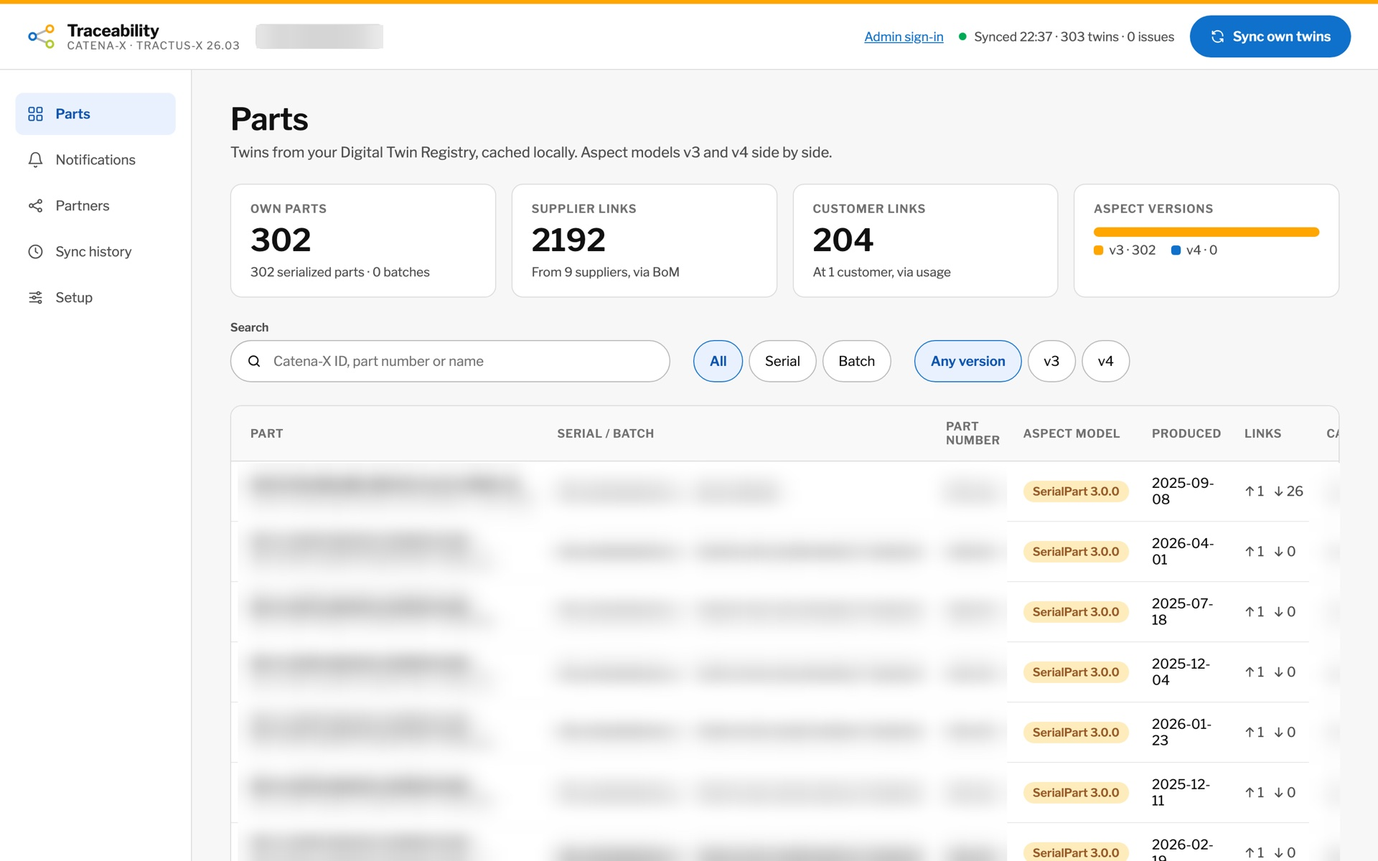
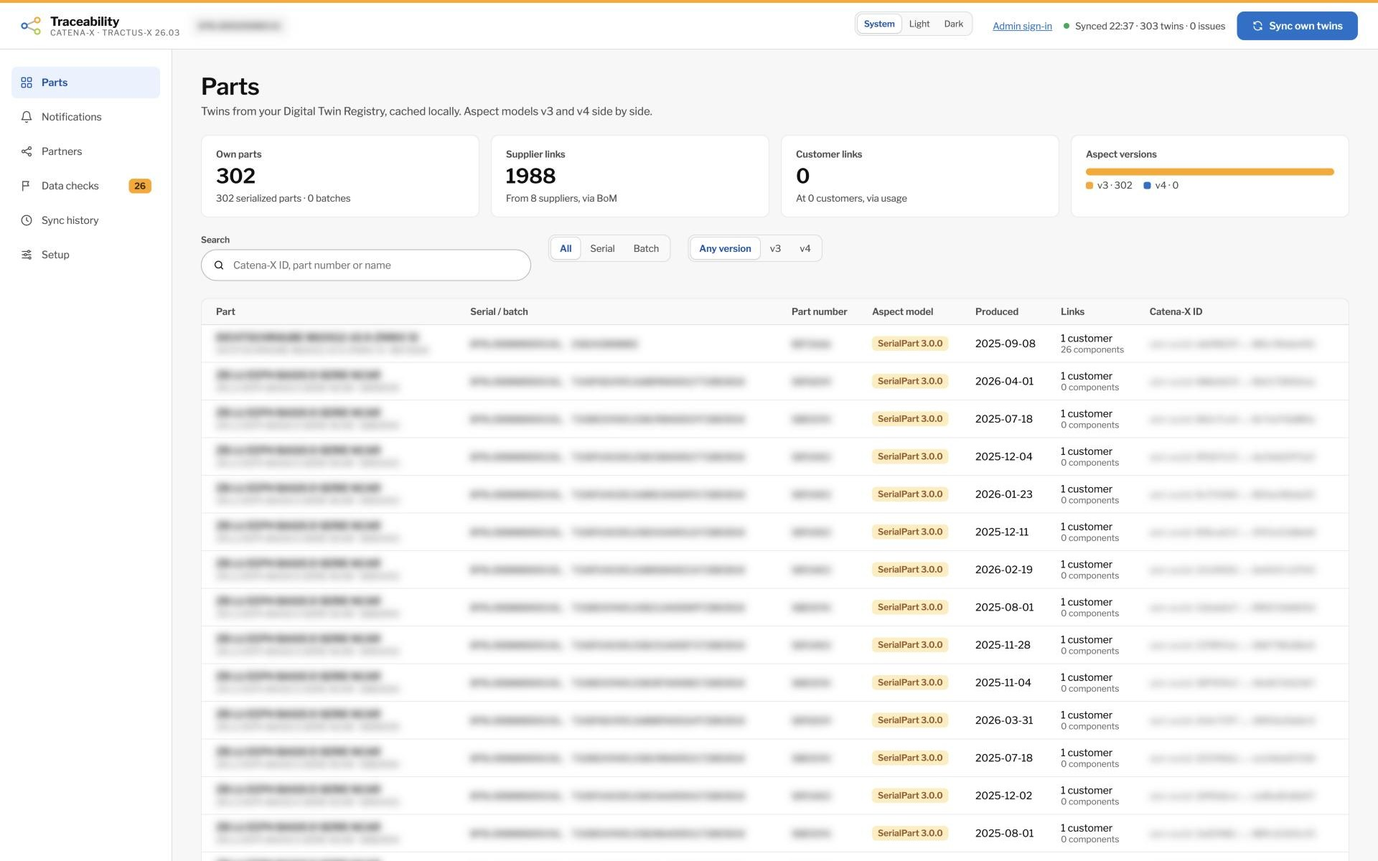
docs(pitch): bring the deck up to date with the app and the latest test results
- Slide 11: 296 automated tests; supplier parts read through the
  suppliers' own production connectors (356 parts, partners not named);
  links corrected to 1,988 to 8 suppliers (the earlier count also included
  links between own parts); a new screenshot of the current UI, sensitive
  data blurred. The notes say what was and was not measured again.
- Slides 7, 8 and 12: the core's part structure, where-used and checks;
  reuse, parallel reads, retries and back-off; phase 3 includes the
  suppliers' connectors and the work to run unattended.
- Viewer: on a phone the speaker notes show as text under each slide.

diff --git a/docs/pitch/index.html b/docs/pitch/index.html
@@ -25,6 +25,15 @@ section th, section td { text-align: left; padding: 18px 28px; border-bottom: 1p
 section aside { display: none; }
 body.notes section aside { display: block; position: absolute; left: 0; right: 0; bottom: 0;
   background: rgba(20,24,29,.92); color: #f4f6f8; font-size: 26px; line-height: 1.4; padding: 24px 40px; }
+.note { display: none; max-width: 1600px; margin: -16px auto 32px; color: #c9ced4; font-size: 15px;
+  line-height: 1.5; }
+@media (max-width: 900px) {
+  header { padding: 16px; }
+  header label { margin-left: 0; }
+  .frame { margin-bottom: 20px; border-radius: 4px; }
+  body.notes section aside { display: none; }
+  body.notes .note { display: block; padding: 0 16px; margin-top: -8px; }
+}
 x-shape { display: block; flex: none; }
 x-shape[kind="ellipse"] { border-radius: 50%; }
 x-shape[kind="arrow-right"] { clip-path: polygon(0 30%, 60% 30%, 60% 0, 100% 50%, 60% 100%, 60% 70%, 0 70%); }
@@ -53,6 +62,7 @@ x-shape[kind="arrow-up"] { clip-path: polygon(30% 100%, 70% 100%, 70% 40%, 100% 
 <aside>Open with the one-line idea: the Traceability use case is alive and standardized, the reference app that was meant to carry it is not. We built a small app that follows the KIT and avoids the architectural choice that made Trace-X slow.</aside>
 </section>
 </div></div>
+<div class="note">Open with the one-line idea: the Traceability use case is alive and standardized, the reference app that was meant to carry it is not. We built a small app that follows the KIT and avoids the architectural choice that made Trace-X slow.</div>
 <div class="frame"><div class="slide">
 <section id="problem" data-section="Why traceability matters and what the network already tried" style="background:#F7F7F5;color:#14181D;font-family:'Libre Franklin', Arial, sans-serif;padding:128px 128px 160px;display:flex;flex-direction:column;gap:56px">
 <div style="display:flex;flex-direction:column;gap:20px">
@@ -81,6 +91,7 @@ x-shape[kind="arrow-up"] { clip-path: polygon(30% 100%, 70% 100%, 70% 40%, 100% 
 <aside>This is the business question behind the Traceability KIT: precise recall scope instead of broad recalls. The answer is spread over many companies; each knows only its own level. Alerts go to customers, investigations to suppliers — that is the KIT's notification model.</aside>
 </section>
 </div></div>
+<div class="note">This is the business question behind the Traceability KIT: precise recall scope instead of broad recalls. The answer is spread over many companies; each knows only its own level. Alerts go to customers, investigations to suppliers — that is the KIT's notification model.</div>
 <div class="frame"><div class="slide">
 <section id="tracex" data-section="What happened to Trace-X and why it stalled" style="background:#F7F7F5;color:#14181D;font-family:'Libre Franklin', Arial, sans-serif;padding:128px 128px 160px;display:flex;flex-direction:column;gap:56px">
 <div style="display:flex;flex-direction:column;gap:20px">
@@ -115,6 +126,7 @@ x-shape[kind="arrow-up"] { clip-path: polygon(30% 100%, 70% 100%, 70% 40%, 100% 
 <aside>Be fair to Trace-X: it proved the use case and its notification model became the KIT standard. The point is the architecture: the app shipped together with IRS and expected the whole stack around it.</aside>
 </section>
 </div></div>
+<div class="note">Be fair to Trace-X: it proved the use case and its notification model became the KIT standard. The point is the architecture: the app shipped together with IRS and expected the whole stack around it.</div>
 <div class="frame"><div class="slide">
 <section id="status" data-transition="fade" style="background:#10212F;color:#F4F6F8;font-family:'Libre Franklin', Arial, sans-serif;padding:128px 128px 160px;display:flex;flex-direction:column;gap:72px">
 <div style="display:flex;flex-direction:column;gap:20px">
@@ -140,6 +152,7 @@ x-shape[kind="arrow-up"] { clip-path: polygon(30% 100%, 70% 100%, 70% 40%, 100% 
 <aside>All three numbers are from public sources: the repository history and the Tractus-X release changelog. The repo is not archived and there was no formal deprecation notice; it simply dropped out of the release package after 25.06. Meanwhile the Traceability KIT kept evolving (7.0.0 in 25.09, 8.0.0 in 26.03).</aside>
 </section>
 </div></div>
+<div class="note">All three numbers are from public sources: the repository history and the Tractus-X release changelog. The repo is not archived and there was no formal deprecation notice; it simply dropped out of the release package after 25.06. Meanwhile the Traceability KIT kept evolving (7.0.0 in 25.09, 8.0.0 in 26.03).</div>
 <div class="frame"><div class="slide">
 <section id="why" style="background:#F7F7F5;color:#14181D;font-family:'Libre Franklin', Arial, sans-serif;padding:128px 128px 160px;display:flex;flex-direction:column;gap:56px">
 <div style="display:flex;flex-direction:column;gap:20px">
@@ -165,6 +178,7 @@ x-shape[kind="arrow-up"] { clip-path: polygon(30% 100%, 70% 100%, 70% 40%, 100% 
 <aside>Field feedback we heard: performance was the blocker in daily use. We cannot point to a public benchmark, so the slide shows the architectural reason instead — a recursive walk that pays a full dataspace round trip per hop — and the public facts: no load tests in the release notes, and IRS left behind by the move to Saturn policies. [Add your own field evidence here if you have it.]</aside>
 </section>
 </div></div>
+<div class="note">Field feedback we heard: performance was the blocker in daily use. We cannot point to a public benchmark, so the slide shows the architectural reason instead — a recursive walk that pays a full dataspace round trip per hop — and the public facts: no load tests in the release notes, and IRS left behind by the move to Saturn policies. [Add your own field evidence here if you have it.]</div>
 <div class="frame"><div class="slide">
 <section id="hops" style="background:#F7F7F5;color:#14181D;font-family:'Libre Franklin', Arial, sans-serif;padding:128px 128px 160px;display:flex;flex-direction:column;gap:48px">
 <div style="display:flex;flex-direction:column;gap:20px">
@@ -207,6 +221,7 @@ x-shape[kind="arrow-up"] { clip-path: polygon(30% 100%, 70% 100%, 70% 40%, 100% 
 <aside>This is the slide to slow down on. Left: one question triggers a recursive walk; the cost grows with the depth of the chain and every hop is a full dataspace round trip. Right: nobody walks the chain. Each company answers its own level from a local cache and decides to forward — exactly the hop-by-hop model the Traceability KIT describes for alerts and investigations.</aside>
 </section>
 </div></div>
+<div class="note">This is the slide to slow down on. Left: one question triggers a recursive walk; the cost grows with the depth of the chain and every hop is a full dataspace round trip. Right: nobody walks the chain. Each company answers its own level from a local cache and decides to forward — exactly the hop-by-hop model the Traceability KIT describes for alerts and investigations.</div>
 <div class="frame"><div class="slide">
 <section id="principles" data-section="Our approach and why it fits the network as it is" style="background:#F7F7F5;color:#14181D;font-family:'Libre Franklin', Arial, sans-serif;padding:128px 128px 160px;display:flex;flex-direction:column;gap:56px">
 <div style="display:flex;flex-direction:column;gap:20px">
@@ -224,7 +239,7 @@ x-shape[kind="arrow-up"] { clip-path: polygon(30% 100%, 70% 100%, 70% 40%, 100% 
 </div>
 <div style="display:flex;flex-direction:column;gap:16px;background:#FFFFFF;border:1px solid #DCDCDC;border-left:6px solid #0F71CB;border-radius:16px;padding:36px 40px">
 <h3 style="font-size:36px;font-weight:600;line-height:1.2">Negotiate once, reuse</h3>
-<p style="font-size:28px;line-height:1.45;color:#4A5563">Contract agreements and access tokens are kept per partner and asset; twins live in a local cache.</p>
+<p style="font-size:28px;line-height:1.45;color:#4A5563">Agreements and tokens are reused per partner and asset; twins live in a local cache, read again only when stale.</p>
 </div>
 <div style="display:flex;flex-direction:column;gap:16px;background:#FFFFFF;border:1px solid #DCDCDC;border-left:6px solid #0F71CB;border-radius:16px;padding:36px 40px">
 <h3 style="font-size:36px;font-weight:600;line-height:1.2">Read every version in use</h3>
@@ -232,9 +247,10 @@ x-shape[kind="arrow-up"] { clip-path: polygon(30% 100%, 70% 100%, 70% 40%, 100% 
 </div>
 </div>
 <p style="position:absolute;left:128px;bottom:64px;width:1664px;font-size:24px;color:#6A7480">Catena-X Traceability · 7</p>
-<aside>Each choice answers one of the reasons Trace-X stalled. Prerequisite infrastructure answers the heavy bundled stack. One level answers the recursive walk. Negotiate-once answers the per-request round trips: in a local test against a production EDC, 303 twins sharing a handful of assets synced in 7.5 minutes through the EDC. Tolerant reading answers version churn: the network does not upgrade in lockstep.</aside>
+<aside>Each choice answers one of the reasons Trace-X stalled. Prerequisite infrastructure answers the heavy bundled stack. One level answers the recursive walk. Negotiate-once answers the per-request round trips: in a local test against a production EDC, 303 twins sharing a handful of assets synced in 7.5 minutes through the EDC. Partner syncs now read several partners and twins at once, retry passing failures, skip twins read in the last day and leave alone for a while a partner that keeps failing. Tolerant reading answers version churn: the network does not upgrade in lockstep.</aside>
 </section>
 </div></div>
+<div class="note">Each choice answers one of the reasons Trace-X stalled. Prerequisite infrastructure answers the heavy bundled stack. One level answers the recursive walk. Negotiate-once answers the per-request round trips: in a local test against a production EDC, 303 twins sharing a handful of assets synced in 7.5 minutes through the EDC. Partner syncs now read several partners and twins at once, retry passing failures, skip twins read in the last day and leave alone for a while a partner that keeps failing. Tolerant reading answers version churn: the network does not upgrade in lockstep.</div>
 <div class="frame"><div class="slide">
 <section id="architecture" style="background:#F7F7F5;color:#14181D;font-family:'Libre Franklin', Arial, sans-serif;padding:128px 128px 160px;display:flex;flex-direction:column;gap:48px">
 <div style="display:flex;flex-direction:column;gap:20px">
@@ -244,7 +260,7 @@ x-shape[kind="arrow-up"] { clip-path: polygon(30% 100%, 70% 100%, 70% 40%, 100% 
 <div style="display:flex;flex-direction:row;gap:24px;align-items:center">
 <div style="flex:1.5;display:flex;flex-direction:column;gap:14px;background:#0F71CB;color:#FFFFFF;border-radius:16px;padding:32px 36px">
 <h3 style="font-size:32px;font-weight:600;color:#FFFFFF">Traceability app</h3>
-<p style="font-size:26px;background:#0D55AF;padding:10px 18px;border-radius:8px">Core: sync, one-level tree, affected parts</p>
+<p style="font-size:26px;background:#0D55AF;padding:10px 18px;border-radius:8px">Core: sync, part structure, where-used, checks</p>
 <p style="font-size:26px;background:#0D55AF;padding:10px 18px;border-radius:8px">Aspect adapters: v3 · v4 · industry_core</p>
 <p style="font-size:26px;background:#0D55AF;padding:10px 18px;border-radius:8px">Notifications: KIT API 1.2.1 + 2.0.0</p>
 <p style="font-size:26px;background:#0D55AF;padding:10px 18px;border-radius:8px">Dataspace client: Tractus-X SDK</p>
@@ -273,9 +289,10 @@ x-shape[kind="arrow-up"] { clip-path: polygon(30% 100%, 70% 100%, 70% 40%, 100% 
 </div>
 <p style="font-size:28px;color:#4A5563">Python · FastAPI · Tractus-X SDK · PostgreSQL · React — one container, on Docker Compose or Helm, configured in the browser.</p>
 <p style="position:absolute;left:128px;bottom:64px;width:1664px;font-size:24px;color:#6A7480">Catena-X Traceability · 8</p>
-<aside>The app is the only new component. The EDC, the registry, the submodel server and the identity are what every participant runs anyway. All dataspace access goes through the official Tractus-X SDK behind our own interfaces, so moving to the next release (26.09: EDC 0.13) is a configuration and adapter change, not a rewrite. Setting it up takes an admin sign-in and a guided checklist on the Setup page: connector, registry, IdP, discovery and the company's own root CA, each with a connection test.</aside>
+<aside>The app is the only new component. The EDC, the registry, the submodel server and the identity are what every participant runs anyway. All dataspace access goes through the official Tractus-X SDK behind our own interfaces, so moving to the next release (26.09: EDC 0.13) is a configuration and adapter change, not a rewrite. Setting it up takes an admin sign-in and a guided checklist on the Setup page: connector, registry, IdP, discovery and the company's own root CA, each with a connection test, and the usage policies the company accepts. Next to the one-level read across companies, the core shows a part's structure through every own level and where a part is used, and checks the own bills of material and the partners' connectors.</aside>
 </section>
 </div></div>
+<div class="note">The app is the only new component. The EDC, the registry, the submodel server and the identity are what every participant runs anyway. All dataspace access goes through the official Tractus-X SDK behind our own interfaces, so moving to the next release (26.09: EDC 0.13) is a configuration and adapter change, not a rewrite. Setting it up takes an admin sign-in and a guided checklist on the Setup page: connector, registry, IdP, discovery and the company's own root CA, each with a connection test, and the usage policies the company accepts. Next to the one-level read across companies, the core shows a part's structure through every own level and where a part is used, and checks the own bills of material and the partners' connectors.</div>
 <div class="frame"><div class="slide">
 <section id="reality" style="background:#F7F7F5;color:#14181D;font-family:'Libre Franklin', Arial, sans-serif;padding:128px 128px 160px;display:flex;flex-direction:column;gap:48px">
 <div style="display:flex;flex-direction:column;gap:20px">
@@ -294,6 +311,7 @@ x-shape[kind="arrow-up"] { clip-path: polygon(30% 100%, 70% 100%, 70% 40%, 100% 
 <aside>The network does not upgrade in lockstep. SerialPart 3.0.x is still in release status in the official models repository, so tolerating it is correct, not a workaround. The end of Jupiter support at the end of 2026 is why Saturn comes first; in practice some partners have not moved yet, so the app still negotiates with them over DSP 0.8. The KIT itself says 1.2.1 is mandatory and 2.0.0 optional; 2.0.0 is a superset, so we receive both.</aside>
 </section>
 </div></div>
+<div class="note">The network does not upgrade in lockstep. SerialPart 3.0.x is still in release status in the official models repository, so tolerating it is correct, not a workaround. The end of Jupiter support at the end of 2026 is why Saturn comes first; in practice some partners have not moved yet, so the app still negotiates with them over DSP 0.8. The KIT itself says 1.2.1 is mandatory and 2.0.0 optional; 2.0.0 is a superset, so we receive both.</div>
 <div class="frame"><div class="slide">
 <section id="compare" data-transition="fade" style="background:#10212F;color:#F4F6F8;font-family:'Libre Franklin', Arial, sans-serif;padding:128px 128px 160px;display:flex;flex-direction:column;gap:48px">
 <div style="display:flex;flex-direction:column;gap:20px">
@@ -313,6 +331,7 @@ x-shape[kind="arrow-up"] { clip-path: polygon(30% 100%, 70% 100%, 70% 40%, 100% 
 <aside>Keep this factual, not a takedown. The notification model is the same — it is the KIT standard and Trace-X helped define it. What differs is where the work happens: in a recursive walk through the network, or locally at each company. [Check the "Aspect versions" row against your own experience with Trace-X before presenting.]</aside>
 </section>
 </div></div>
+<div class="note">Keep this factual, not a takedown. The notification model is the same — it is the KIT standard and Trace-X helped define it. What differs is where the work happens: in a recursive walk through the network, or locally at each company. [Check the "Aspect versions" row against your own experience with Trace-X before presenting.]</div>
 <div class="frame"><div class="slide">
 <section id="today" data-section="Where we are, what comes next and what we need" style="background:#F7F7F5;color:#14181D;font-family:'Libre Franklin', Arial, sans-serif;padding:128px 128px 160px;display:flex;flex-direction:column;gap:48px">
 <div style="display:flex;flex-direction:column;gap:20px">
@@ -326,27 +345,28 @@ x-shape[kind="arrow-up"] { clip-path: polygon(30% 100%, 70% 100%, 70% 40%, 100% 
 <p style="font-size:28px;line-height:1.35;color:#4A5563">synced in a local test against a production registry and EDC, in 7.5 minutes</p>
 </div>
 <div style="display:flex;flex-direction:column;gap:4px;border-left:6px solid #B3CB2D;padding:0 0 0 24px">
-<p style="font-size:56px;font-weight:700;line-height:1.1">2,192 · 204</p>
-<p style="font-size:28px;line-height:1.35;color:#4A5563">links to 9 suppliers and 1 customer, from bills of material and usage</p>
+<p style="font-size:56px;font-weight:700;line-height:1.1">356 supplier parts</p>
+<p style="font-size:28px;line-height:1.35;color:#4A5563">read through the suppliers' own production connectors, from 1,988 links to 8 suppliers</p>
 </div>
 <div style="display:flex;flex-direction:column;gap:4px;border-left:6px solid #B3CB2D;padding:0 0 0 24px">
 <p style="font-size:36px;font-weight:600;line-height:1.2">Three companies, real EDCs</p>
 <p style="font-size:28px;line-height:1.35;color:#4A5563">An alert travels Tier-2 → Tier-1 → OEM on the Tractus-X umbrella, and back</p>
 </div>
 <div style="display:flex;flex-direction:column;gap:4px;border-left:6px solid #B3CB2D;padding:0 0 0 24px">
-<p style="font-size:36px;font-weight:600;line-height:1.2">252 automated tests</p>
+<p style="font-size:36px;font-weight:600;line-height:1.2">296 automated tests</p>
 <p style="font-size:28px;line-height:1.35;color:#4A5563">14 official aspect payload versions, v3 to industry_core v4</p>
 </div>
 </div>
 <div style="flex:1;display:flex;flex-direction:column;gap:12px">
-<img src="parts-production.jpg" alt="The app's parts page after a local test sync: 302 own parts, 2192 supplier links, 204 customer links, 0 issues" style="width:960px;height:600px;object-fit:contain;background:#E9ECEF;border:1px solid #DCDCDC;border-radius:16px">
+<img src="parts-production.jpg" alt="The app's parts page after a local test sync: 302 own parts, 1988 supplier links to 8 suppliers, 0 issues" style="width:960px;height:600px;object-fit:contain;background:#E9ECEF;border:1px solid #DCDCDC;border-radius:16px">
 <p style="font-size:24px;color:#6A7480">A local test against a production connector — names, serials and BPNL blurred</p>
 </div>
 </div>
 <p style="position:absolute;left:128px;bottom:64px;width:1664px;font-size:24px;color:#6A7480">Catena-X Traceability · 11</p>
-<aside>Be precise about what is proven. In a one-off local test against a production EDC and registry (a local instance, not a production deployment), the app synced a selection of 200 vehicles (303 twins with their children) from a real Digital Twin Registry; the data plane wanted an EDR, so every submodel was read through the company's own EDC — one negotiation per shared asset, then plain reads — and nothing failed. In the Tractus-X umbrella lab: three companies, each with its own EDC, registry and app, read their direct partners and pass a quality alert Tier-2 → Tier-1 → OEM with the acceptance coming back. Not yet proven: notifications with a real partner in production — that is the pilot.</aside>
+<aside>Be precise about what is proven. In a one-off local test against a production EDC and registry (a local instance, not a production deployment), the app synced a selection of 200 vehicles (303 twins with their children) from a real Digital Twin Registry; the data plane wanted an EDR, so every submodel was read through the company's own EDC — one negotiation per shared asset, then plain reads — and nothing failed. In the Tractus-X umbrella lab: three companies, each with its own EDC, registry and app, read their direct partners and pass a quality alert Tier-2 → Tier-1 → OEM with the acceptance coming back. In the same local test, the app read its direct suppliers' parts through their own production connectors: 356 supplier parts are cached, from three suppliers. Of the six suppliers synced so far, two delivered every linked twin, three answered but publish none of the linked twins yet — a data question to settle with them, not a connectivity one — and one refused the negotiation. The links figure is 1,988 to 8 suppliers: an earlier count also included links between the company's own parts. The 7.5 minutes were measured before partners and twins were read in parallel and tokens reused until they expire; it has not been measured again. Not yet proven: notifications with a real partner in production — that is the pilot.</aside>
 </section>
 </div></div>
+<div class="note">Be precise about what is proven. In a one-off local test against a production EDC and registry (a local instance, not a production deployment), the app synced a selection of 200 vehicles (303 twins with their children) from a real Digital Twin Registry; the data plane wanted an EDR, so every submodel was read through the company's own EDC — one negotiation per shared asset, then plain reads — and nothing failed. In the Tractus-X umbrella lab: three companies, each with its own EDC, registry and app, read their direct partners and pass a quality alert Tier-2 → Tier-1 → OEM with the acceptance coming back. In the same local test, the app read its direct suppliers' parts through their own production connectors: 356 supplier parts are cached, from three suppliers. Of the six suppliers synced so far, two delivered every linked twin, three answered but publish none of the linked twins yet — a data question to settle with them, not a connectivity one — and one refused the negotiation. The links figure is 1,988 to 8 suppliers: an earlier count also included links between the company's own parts. The 7.5 minutes were measured before partners and twins were read in parallel and tokens reused until they expire; it has not been measured again. Not yet proven: notifications with a real partner in production — that is the pilot.</div>
 <div class="frame"><div class="slide">
 <section id="roadmap" style="background:#F7F7F5;color:#14181D;font-family:'Libre Franklin', Arial, sans-serif;padding:128px 128px 160px;display:flex;flex-direction:column;gap:56px">
 <div style="display:flex;flex-direction:column;gap:20px">
@@ -367,7 +387,7 @@ x-shape[kind="arrow-up"] { clip-path: polygon(30% 100%, 70% 100%, 70% 40%, 100% 
 <div style="flex:1;display:flex;flex-direction:column;gap:16px;background:#F0F5D5;border:1px solid #B3CB2D;border-radius:16px;padding:36px">
 <p style="font-size:24px;font-weight:600;letter-spacing:1px;text-transform:uppercase;color:#4F5A12">Phase 3 · done</p>
 <h3 style="font-size:36px;font-weight:600;line-height:1.2">Real connectors</h3>
-<p style="font-size:28px;line-height:1.4;color:#3F4A10">Three-company umbrella lab; local test against a production EDC</p>
+<p style="font-size:28px;line-height:1.4;color:#3F4A10">Umbrella lab; local test with production EDCs, own and suppliers'</p>
 </div>
 <div style="flex:1;display:flex;flex-direction:column;gap:16px;background:#FFFFFF;border:2px solid #0F71CB;border-radius:16px;padding:36px">
 <p style="font-size:24px;font-weight:600;letter-spacing:1px;text-transform:uppercase;color:#0D55AF">Phase 4 · next</p>
@@ -377,9 +397,10 @@ x-shape[kind="arrow-up"] { clip-path: polygon(30% 100%, 70% 100%, 70% 40%, 100% 
 </div>
 <p style="font-size:28px;line-height:1.4;color:#4A5563">Timeline: [weeks per phase] · Team: [people]</p>
 <p style="position:absolute;left:128px;bottom:64px;width:1664px;font-size:24px;color:#6A7480">Catena-X Traceability · 12</p>
-<aside>Phase 3 was the proof point and it is done: three participants in the Tractus-X umbrella environment, one of them deliberately still on SerialPart 3, pass an alert Tier-2 to Tier-1 to OEM while each company only looks at its own level; and, in a local test, the app has synced twins from a production registry through a real EDC. What is left is the pilot: the same alerts with real partners. Fill in the timeline and team before presenting.</aside>
+<aside>Phase 3 was the proof point and it is done: three participants in the Tractus-X umbrella environment, one of them deliberately still on SerialPart 3, pass an alert Tier-2 to Tier-1 to OEM while each company only looks at its own level; and, in a local test, the app has synced twins from a production registry through a real EDC and read its suppliers' parts through their own production connectors. Since then it has been made ready to run unattended: syncs run in the background with live progress and stored metrics, read in parallel, retry passing failures and back off from partners that keep failing. What is left is the pilot: the same alerts with real partners. Fill in the timeline and team before presenting.</aside>
 </section>
 </div></div>
+<div class="note">Phase 3 was the proof point and it is done: three participants in the Tractus-X umbrella environment, one of them deliberately still on SerialPart 3, pass an alert Tier-2 to Tier-1 to OEM while each company only looks at its own level; and, in a local test, the app has synced twins from a production registry through a real EDC and read its suppliers' parts through their own production connectors. Since then it has been made ready to run unattended: syncs run in the background with live progress and stored metrics, read in parallel, retry passing failures and back off from partners that keep failing. What is left is the pilot: the same alerts with real partners. Fill in the timeline and team before presenting.</div>
 <div class="frame"><div class="slide">
 <section id="ask" style="background:#F7F7F5;color:#14181D;font-family:'Libre Franklin', Arial, sans-serif;padding:128px 128px 160px;display:flex;flex-direction:column;gap:56px">
 <div style="display:flex;flex-direction:column;gap:20px">
@@ -413,6 +434,7 @@ x-shape[kind="arrow-up"] { clip-path: polygon(30% 100%, 70% 100%, 70% 40%, 100% 
 <aside>Replace the bracketed items with the concrete ask for this audience. Pilot partners matter most: the whole point is that the app works with partners as they are today, including those still on SerialPart 3 or on Jupiter. The connectors and the registry are no longer the open question: the app has already been tested locally against production ones.</aside>
 </section>
 </div></div>
+<div class="note">Replace the bracketed items with the concrete ask for this audience. Pilot partners matter most: the whole point is that the app works with partners as they are today, including those still on SerialPart 3 or on Jupiter. The connectors and the registry are no longer the open question: the app has already been tested locally against production ones.</div>
 <div class="frame"><div class="slide">
 <section id="close" data-transition="fade" style="background:#FFA600;color:#14181D;font-family:'Libre Franklin', Arial, sans-serif;padding:128px;display:flex;flex-direction:column;justify-content:space-between">
 <div style="display:flex;flex-direction:row;gap:16px;align-items:center">
@@ -428,9 +450,11 @@ x-shape[kind="arrow-up"] { clip-path: polygon(30% 100%, 70% 100%, 70% 40%, 100% 
 <aside>Close on the two-sentence summary and open for questions. Likely questions: How do you handle partners without notifications? (The app publishes the KIT notification assets and policies in its own EDC, in both API versions.) What about IRS for deep trees? (Not needed: each hop is answered by the company that owns that level.) Why not fix Trace-X? (Its design depends on IRS; we would be fighting the architecture.)</aside>
 </section>
 </div></div>
+<div class="note">Close on the two-sentence summary and open for questions. Likely questions: How do you handle partners without notifications? (The app publishes the KIT notification assets and policies in its own EDC, in both API versions.) What about IRS for deep trees? (Not needed: each hop is answered by the company that owns that level.) Why not fix Trace-X? (Its design depends on IRS; we would be fighting the architecture.)</div>
 <script>
 function fit() {
-  const width = Math.min(window.innerWidth - 64, 1600);
+  const gutter = window.innerWidth <= 900 ? 32 : 64;
+  const width = Math.min(window.innerWidth - gutter, 1600);
   const scale = width / 1920;
   document.querySelectorAll('.frame').forEach((f) => {
     f.style.width = width + 'px';

diff --git a/docs/pitch/slides/today.html b/docs/pitch/slides/today.html
@@ -10,23 +10,23 @@
 <p style="font-size:28px;line-height:1.35;color:#4A5563">synced in a local test against a production registry and EDC, in 7.5 minutes</p>
 </div>
 <div style="display:flex;flex-direction:column;gap:4px;border-left:6px solid #B3CB2D;padding:0 0 0 24px">
-<p style="font-size:56px;font-weight:700;line-height:1.1">2,192 · 204</p>
-<p style="font-size:28px;line-height:1.35;color:#4A5563">links to 9 suppliers and 1 customer, from bills of material and usage</p>
+<p style="font-size:56px;font-weight:700;line-height:1.1">356 supplier parts</p>
+<p style="font-size:28px;line-height:1.35;color:#4A5563">read through the suppliers' own production connectors, from 1,988 links to 8 suppliers</p>
 </div>
 <div style="display:flex;flex-direction:column;gap:4px;border-left:6px solid #B3CB2D;padding:0 0 0 24px">
 <p style="font-size:36px;font-weight:600;line-height:1.2">Three companies, real EDCs</p>
 <p style="font-size:28px;line-height:1.35;color:#4A5563">An alert travels Tier-2 → Tier-1 → OEM on the Tractus-X umbrella, and back</p>
 </div>
 <div style="display:flex;flex-direction:column;gap:4px;border-left:6px solid #B3CB2D;padding:0 0 0 24px">
-<p style="font-size:36px;font-weight:600;line-height:1.2">252 automated tests</p>
+<p style="font-size:36px;font-weight:600;line-height:1.2">296 automated tests</p>
 <p style="font-size:28px;line-height:1.35;color:#4A5563">14 official aspect payload versions, v3 to industry_core v4</p>
 </div>
 </div>
 <div style="flex:1;display:flex;flex-direction:column;gap:12px">
-<img src="parts-production.jpg" alt="The app's parts page after a local test sync: 302 own parts, 2192 supplier links, 204 customer links, 0 issues" style="width:960px;height:600px;object-fit:contain;background:#E9ECEF;border:1px solid #DCDCDC;border-radius:16px">
+<img src="parts-production.jpg" alt="The app's parts page after a local test sync: 302 own parts, 1988 supplier links to 8 suppliers, 0 issues" style="width:960px;height:600px;object-fit:contain;background:#E9ECEF;border:1px solid #DCDCDC;border-radius:16px">
 <p style="font-size:24px;color:#6A7480">A local test against a production connector — names, serials and BPNL blurred</p>
 </div>
 </div>
 <p style="position:absolute;left:128px;bottom:64px;width:1664px;font-size:24px;color:#6A7480">Catena-X Traceability · 11</p>
-<aside>Be precise about what is proven. In a one-off local test against a production EDC and registry (a local instance, not a production deployment), the app synced a selection of 200 vehicles (303 twins with their children) from a real Digital Twin Registry; the data plane wanted an EDR, so every submodel was read through the company's own EDC — one negotiation per shared asset, then plain reads — and nothing failed. In the Tractus-X umbrella lab: three companies, each with its own EDC, registry and app, read their direct partners and pass a quality alert Tier-2 → Tier-1 → OEM with the acceptance coming back. Not yet proven: notifications with a real partner in production — that is the pilot.</aside>
+<aside>Be precise about what is proven. In a one-off local test against a production EDC and registry (a local instance, not a production deployment), the app synced a selection of 200 vehicles (303 twins with their children) from a real Digital Twin Registry; the data plane wanted an EDR, so every submodel was read through the company's own EDC — one negotiation per shared asset, then plain reads — and nothing failed. In the Tractus-X umbrella lab: three companies, each with its own EDC, registry and app, read their direct partners and pass a quality alert Tier-2 → Tier-1 → OEM with the acceptance coming back. In the same local test, the app read its direct suppliers' parts through their own production connectors: 356 supplier parts are cached, from three suppliers. Of the six suppliers synced so far, two delivered every linked twin, three answered but publish none of the linked twins yet — a data question to settle with them, not a connectivity one — and one refused the negotiation. The links figure is 1,988 to 8 suppliers: an earlier count also included links between the company's own parts. The 7.5 minutes were measured before partners and twins were read in parallel and tokens reused until they expire; it has not been measured again. Not yet proven: notifications with a real partner in production — that is the pilot.</aside>
 </section>

diff --git a/docs/pitch/slides/architecture.html b/docs/pitch/slides/architecture.html
@@ -6,7 +6,7 @@
 <div style="display:flex;flex-direction:row;gap:24px;align-items:center">
 <div style="flex:1.5;display:flex;flex-direction:column;gap:14px;background:#0F71CB;color:#FFFFFF;border-radius:16px;padding:32px 36px">
 <h3 style="font-size:32px;font-weight:600;color:#FFFFFF">Traceability app</h3>
-<p style="font-size:26px;background:#0D55AF;padding:10px 18px;border-radius:8px">Core: sync, one-level tree, affected parts</p>
+<p style="font-size:26px;background:#0D55AF;padding:10px 18px;border-radius:8px">Core: sync, part structure, where-used, checks</p>
 <p style="font-size:26px;background:#0D55AF;padding:10px 18px;border-radius:8px">Aspect adapters: v3 · v4 · industry_core</p>
 <p style="font-size:26px;background:#0D55AF;padding:10px 18px;border-radius:8px">Notifications: KIT API 1.2.1 + 2.0.0</p>
 <p style="font-size:26px;background:#0D55AF;padding:10px 18px;border-radius:8px">Dataspace client: Tractus-X SDK</p>
@@ -35,5 +35,5 @@
 </div>
 <p style="font-size:28px;color:#4A5563">Python · FastAPI · Tractus-X SDK · PostgreSQL · React — one container, on Docker Compose or Helm, configured in the browser.</p>
 <p style="position:absolute;left:128px;bottom:64px;width:1664px;font-size:24px;color:#6A7480">Catena-X Traceability · 8</p>
-<aside>The app is the only new component. The EDC, the registry, the submodel server and the identity are what every participant runs anyway. All dataspace access goes through the official Tractus-X SDK behind our own interfaces, so moving to the next release (26.09: EDC 0.13) is a configuration and adapter change, not a rewrite. Setting it up takes an admin sign-in and a guided checklist on the Setup page: connector, registry, IdP, discovery and the company's own root CA, each with a connection test.</aside>
+<aside>The app is the only new component. The EDC, the registry, the submodel server and the identity are what every participant runs anyway. All dataspace access goes through the official Tractus-X SDK behind our own interfaces, so moving to the next release (26.09: EDC 0.13) is a configuration and adapter change, not a rewrite. Setting it up takes an admin sign-in and a guided checklist on the Setup page: connector, registry, IdP, discovery and the company's own root CA, each with a connection test, and the usage policies the company accepts. Next to the one-level read across companies, the core shows a part's structure through every own level and where a part is used, and checks the own bills of material and the partners' connectors.</aside>
 </section>

diff --git a/docs/pitch/slides/roadmap.html b/docs/pitch/slides/roadmap.html
@@ -17,7 +17,7 @@
 <div style="flex:1;display:flex;flex-direction:column;gap:16px;background:#F0F5D5;border:1px solid #B3CB2D;border-radius:16px;padding:36px">
 <p style="font-size:24px;font-weight:600;letter-spacing:1px;text-transform:uppercase;color:#4F5A12">Phase 3 · done</p>
 <h3 style="font-size:36px;font-weight:600;line-height:1.2">Real connectors</h3>
-<p style="font-size:28px;line-height:1.4;color:#3F4A10">Three-company umbrella lab; local test against a production EDC</p>
+<p style="font-size:28px;line-height:1.4;color:#3F4A10">Umbrella lab; local test with production EDCs, own and suppliers'</p>
 </div>
 <div style="flex:1;display:flex;flex-direction:column;gap:16px;background:#FFFFFF;border:2px solid #0F71CB;border-radius:16px;padding:36px">
 <p style="font-size:24px;font-weight:600;letter-spacing:1px;text-transform:uppercase;color:#0D55AF">Phase 4 · next</p>
@@ -27,5 +27,5 @@
 </div>
 <p style="font-size:28px;line-height:1.4;color:#4A5563">Timeline: [weeks per phase] · Team: [people]</p>
 <p style="position:absolute;left:128px;bottom:64px;width:1664px;font-size:24px;color:#6A7480">Catena-X Traceability · 12</p>
-<aside>Phase 3 was the proof point and it is done: three participants in the Tractus-X umbrella environment, one of them deliberately still on SerialPart 3, pass an alert Tier-2 to Tier-1 to OEM while each company only looks at its own level; and, in a local test, the app has synced twins from a production registry through a real EDC. What is left is the pilot: the same alerts with real partners. Fill in the timeline and team before presenting.</aside>
+<aside>Phase 3 was the proof point and it is done: three participants in the Tractus-X umbrella environment, one of them deliberately still on SerialPart 3, pass an alert Tier-2 to Tier-1 to OEM while each company only looks at its own level; and, in a local test, the app has synced twins from a production registry through a real EDC and read its suppliers' parts through their own production connectors. Since then it has been made ready to run unattended: syncs run in the background with live progress and stored metrics, read in parallel, retry passing failures and back off from partners that keep failing. What is left is the pilot: the same alerts with real partners. Fill in the timeline and team before presenting.</aside>
 </section>

diff --git a/docs/pitch/slides/principles.html b/docs/pitch/slides/principles.html
@@ -14,7 +14,7 @@
 </div>
 <div style="display:flex;flex-direction:column;gap:16px;background:#FFFFFF;border:1px solid #DCDCDC;border-left:6px solid #0F71CB;border-radius:16px;padding:36px 40px">
 <h3 style="font-size:36px;font-weight:600;line-height:1.2">Negotiate once, reuse</h3>
-<p style="font-size:28px;line-height:1.45;color:#4A5563">Contract agreements and access tokens are kept per partner and asset; twins live in a local cache.</p>
+<p style="font-size:28px;line-height:1.45;color:#4A5563">Agreements and tokens are reused per partner and asset; twins live in a local cache, read again only when stale.</p>
 </div>
 <div style="display:flex;flex-direction:column;gap:16px;background:#FFFFFF;border:1px solid #DCDCDC;border-left:6px solid #0F71CB;border-radius:16px;padding:36px 40px">
 <h3 style="font-size:36px;font-weight:600;line-height:1.2">Read every version in use</h3>
@@ -22,5 +22,5 @@
 </div>
 </div>
 <p style="position:absolute;left:128px;bottom:64px;width:1664px;font-size:24px;color:#6A7480">Catena-X Traceability · 7</p>
-<aside>Each choice answers one of the reasons Trace-X stalled. Prerequisite infrastructure answers the heavy bundled stack. One level answers the recursive walk. Negotiate-once answers the per-request round trips: in a local test against a production EDC, 303 twins sharing a handful of assets synced in 7.5 minutes through the EDC. Tolerant reading answers version churn: the network does not upgrade in lockstep.</aside>
+<aside>Each choice answers one of the reasons Trace-X stalled. Prerequisite infrastructure answers the heavy bundled stack. One level answers the recursive walk. Negotiate-once answers the per-request round trips: in a local test against a production EDC, 303 twins sharing a handful of assets synced in 7.5 minutes through the EDC. Partner syncs now read several partners and twins at once, retry passing failures, skip twins read in the last day and leave alone for a while a partner that keeps failing. Tolerant reading answers version churn: the network does not upgrade in lockstep.</aside>
 </section>

diff --git a/docs/pitch/build.py b/docs/pitch/build.py
@@ -3,10 +3,13 @@
     python3 docs/pitch/build.py
 
 The slide files use the 1920×1080 slide format of the Slides artifact the deck was made in; this
-viewer only adds the CSS needed to show them in a browser (fonts, scaling, the x-shape kinds).
+viewer only adds the CSS needed to show them in a browser (fonts, scaling, the x-shape kinds). On a
+narrow screen (a phone) the speaker notes show as text under each slide instead of over it, where
+they would be too small to read.
 """
 
 import json
+import re
 from html import escape
 from pathlib import Path
 
@@ -31,6 +34,15 @@ section th, section td { text-align: left; padding: 18px 28px; border-bottom: 1p
 section aside { display: none; }
 body.notes section aside { display: block; position: absolute; left: 0; right: 0; bottom: 0;
   background: rgba(20,24,29,.92); color: #f4f6f8; font-size: 26px; line-height: 1.4; padding: 24px 40px; }
+.note { display: none; max-width: 1600px; margin: -16px auto 32px; color: #c9ced4; font-size: 15px;
+  line-height: 1.5; }
+@media (max-width: 900px) {
+  header { padding: 16px; }
+  header label { margin-left: 0; }
+  .frame { margin-bottom: 20px; border-radius: 4px; }
+  body.notes section aside { display: none; }
+  body.notes .note { display: block; padding: 0 16px; margin-top: -8px; }
+}
 x-shape { display: block; flex: none; }
 x-shape[kind="ellipse"] { border-radius: 50%; }
 x-shape[kind="arrow-right"] { clip-path: polygon(0 30%, 60% 30%, 60% 0, 100% 50%, 60% 100%, 60% 70%, 0 70%); }
@@ -41,7 +53,8 @@ x-shape[kind="arrow-up"] { clip-path: polygon(30% 100%, 70% 100%, 70% 40%, 100% 
 
 SCRIPT = """
 function fit() {
-  const width = Math.min(window.innerWidth - 64, 1600);
+  const gutter = window.innerWidth <= 900 ? 32 : 64;
+  const width = Math.min(window.innerWidth - gutter, 1600);
   const scale = width / 1920;
   document.querySelectorAll('.frame').forEach((f) => {
     f.style.width = width + 'px';
@@ -57,6 +70,13 @@ document.getElementById('notes').addEventListener('change', (e) => {
 """
 
 
+def _slide(html: str) -> str:
+    """One slide in its frame, followed by its speaker notes for narrow screens."""
+    notes = re.search(r"<aside>(.*?)</aside>", html, re.S)
+    note = f'<div class="note">{notes.group(1)}</div>\n' if notes else ""
+    return f'<div class="frame"><div class="slide">\n{html}</div></div>\n{note}'
+
+
 def build() -> str:
     deck = json.loads((HERE / "deck.json").read_text())
     fonts = "".join(
@@ -64,10 +84,7 @@ def build() -> str:
         for face in deck["faces"].values()
         if "href" in face
     )
-    slides = "".join(
-        f'<div class="frame"><div class="slide">\n{(HERE / "slides" / f"{sid}.html").read_text()}</div></div>\n'
-        for sid in deck["order"]
-    )
+    slides = "".join(_slide((HERE / "slides" / f"{sid}.html").read_text()) for sid in deck["order"])
     title = escape(deck["title"])
     return f"""<!doctype html>
 <html lang="en">

diff --git a/docs/pitch/README.md b/docs/pitch/README.md
@@ -7,7 +7,7 @@ Trace-X stalled, with speaker notes on every slide.
   *Speaker notes* to show them).
 - **Sources**: [`deck.json`](deck.json) (title, slide order, sections, typefaces) and one file per
   slide in [`slides/`](slides/), in the 1920×1080 slide format of the Slides artifact the deck was
-  made in. [`parts-production.jpg`](parts-production.jpg) is the app screenshot used on slide 11 (a local test sync against a production connector, part names, serials and BPNL blurred); [`notification-detail.png`](notification-detail.png), a received alert, is kept as an alternative.
+  made in. [`parts-production.jpg`](parts-production.jpg) is the app screenshot used on slide 11 (the current UI after a local test sync against a production connector, October 2026; part names, serials, part numbers, Catena-X IDs and BPNL blurred); [`notification-detail.png`](notification-detail.png), a received alert, is kept as an alternative.
 - **Rebuild** the viewer after editing a slide: `python3 docs/pitch/build.py`.
 
 Before presenting, fill in the bracketed placeholders (presenter, contact, timeline, team and the
